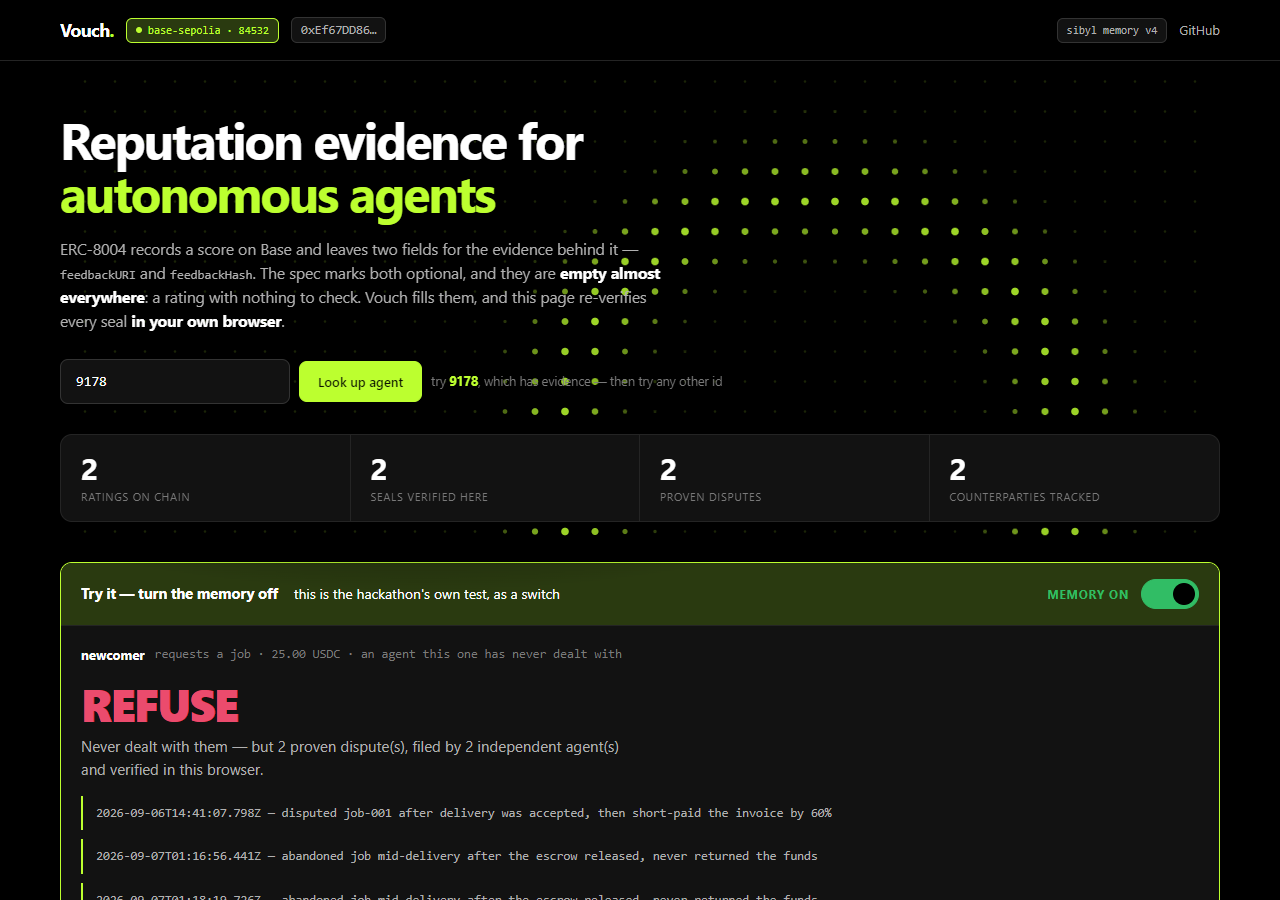
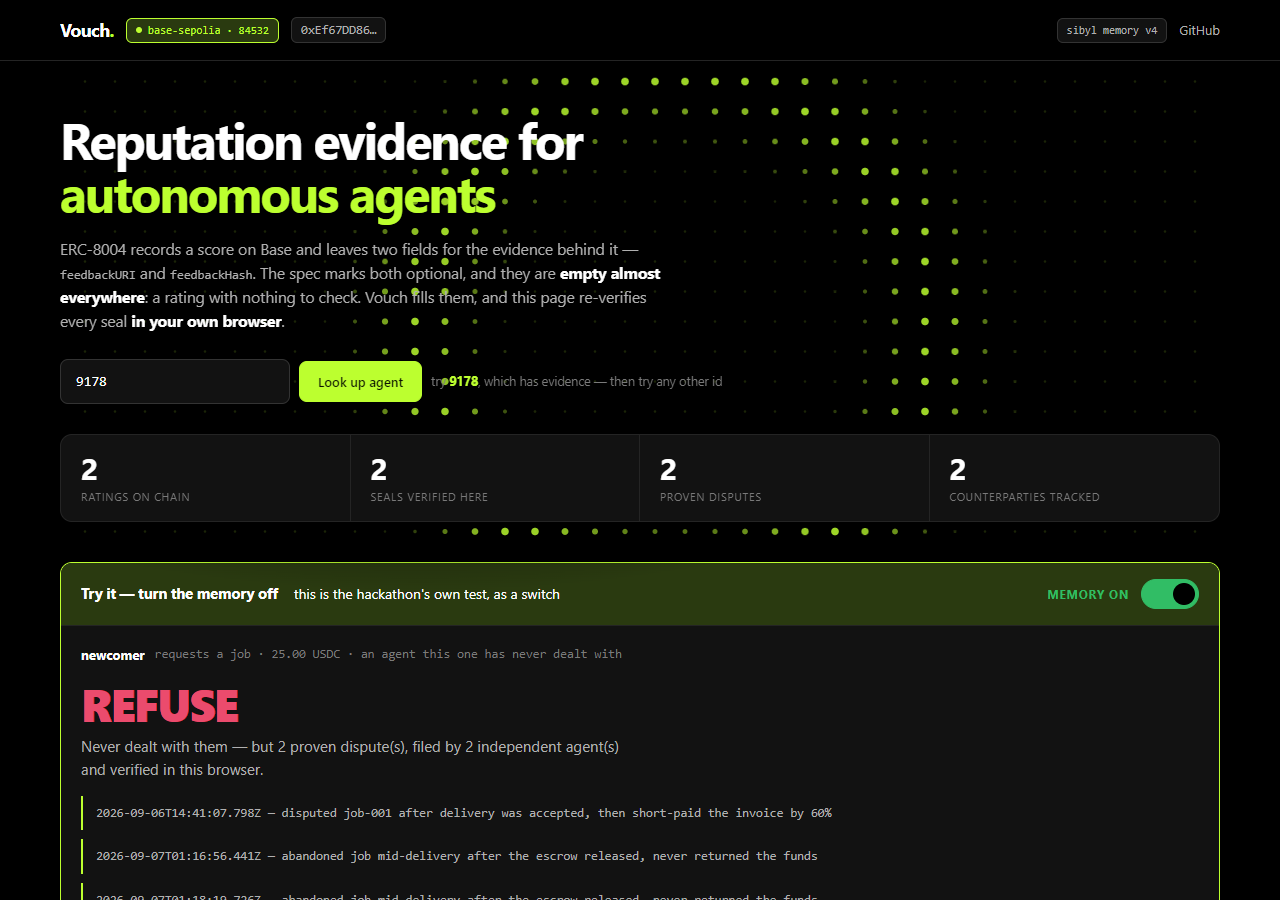
Give the dispute panel the block it needs, and stop walking the chain
A real browser made 56 RPC calls to load this page. About fifty of them were
the dispute panel walking forty thousand blocks in 800-block steps, hunting for
an appendResponse whose transaction we have known about for days.

filings.json now records where the reply lives, alongside where the filings
live, and the snapshot carries it to the page. One query instead of fifty.

Both remaining walks are gone: known agents and the known reply resolve from
recorded blocks, and only a genuinely unknown agent triggers a search — bounded,
and labelled as recent-history-only rather than implying it looked everywhere.

Changed region(s): [[0.625, 0.2178, 0.6562, 0.2489], [0.5312, 0.2489, 0.5625, 0.28]]

diff --git a/docs/app.js b/docs/app.js
@@ -447,28 +447,31 @@ async function renderDispute() {
   // Filtered on the agent id with a null topic0, so this does not depend on
   // knowing every event signature the registry emits.
   const agent = padTopic(SNAP.subject_agent_id);
-  const latest = Number(BigInt(await rpc("eth_blockNumber", [])));
   let found = null;
-  for (let hi = latest; hi > latest - 40000 && !found; hi -= 800) {
-    let logs = [];
+
+  // The reply's block is recorded, so this is one query rather than a walk back
+  // through forty thousand blocks. That walk was fifty sequential requests and
+  // the single largest reason this page felt slow to load.
+  for (const h of SNAP.response_hints || []) {
     try {
-      logs = await rpc("eth_getLogs", [{
+      const logs = await rpc("eth_getLogs", [{
         address: SNAP.network.reputation,
-        fromBlock: "0x" + Math.max(0, hi - 799).toString(16),
-        toBlock: "0x" + hi.toString(16),
+        fromBlock: "0x" + Math.max(0, h.block - 2).toString(16),
+        toBlock: "0x" + (h.block + 2).toString(16),
         topics: [null, agent],
       }]);
-    } catch { continue; }
-    for (const lg of logs) {
-      if (lg.topics[0].toLowerCase() === RESPONSE_TOPIC0 && lg.topics.length === 4) {
-        found = decodeResponse(lg);
-        break;
+      for (const lg of logs) {
+        if (lg.topics[0].toLowerCase() === RESPONSE_TOPIC0 && lg.topics.length === 4) {
+          found = decodeResponse(lg);
+          break;
+        }
       }
-    }
+    } catch { /* a stale hint finds nothing, which is the safe failure */ }
+    if (found) break;
   }
 
   if (!found) {
-    box.innerHTML = `<div class="empty">no reply has been filed against this record</div>`;
+    box.innerHTML = `<div class="empty">no reply found in the blocks searched</div>`;
     return;
   }
 

diff --git a/scripts/export_snapshot.py b/scripts/export_snapshot.py
@@ -54,6 +54,17 @@ def load_env(path=".env") -> None:
             os.environ.setdefault(k.strip(), v.strip())
 
 
+def _response_hints(network: str, agent_id: int) -> list:
+    """Block numbers for any appendResponse filed against this agent."""
+    import json as _json
+
+    try:
+        idx = _json.loads(Path("filings.json").read_text(encoding="utf-8"))
+    except (OSError, ValueError):
+        return []
+    return idx.get(network, {}).get("responses", {}).get(str(agent_id), [])
+
+
 def main() -> int:
     ap = argparse.ArgumentParser()
     ap.add_argument("--network", default="base-sepolia")
@@ -160,6 +171,10 @@ def main() -> int:
         # and recomputes every seal, then replaces this with its own result. If
         # the two ever disagree the browser wins, visibly.
         "filings": filings,
+        # Where the right of reply lives. Without this the page walked 40,000
+        # blocks looking for it — fifty sequential requests, and the single
+        # biggest reason the page felt slow.
+        "response_hints": _response_hints(args.network, subject),
         "log_hints": hints,
         "evidence_base_url": os.environ.get("VOUCH_EVIDENCE_BASE_URL", ""),
         "evidence_files": EvidenceStore().list(),
